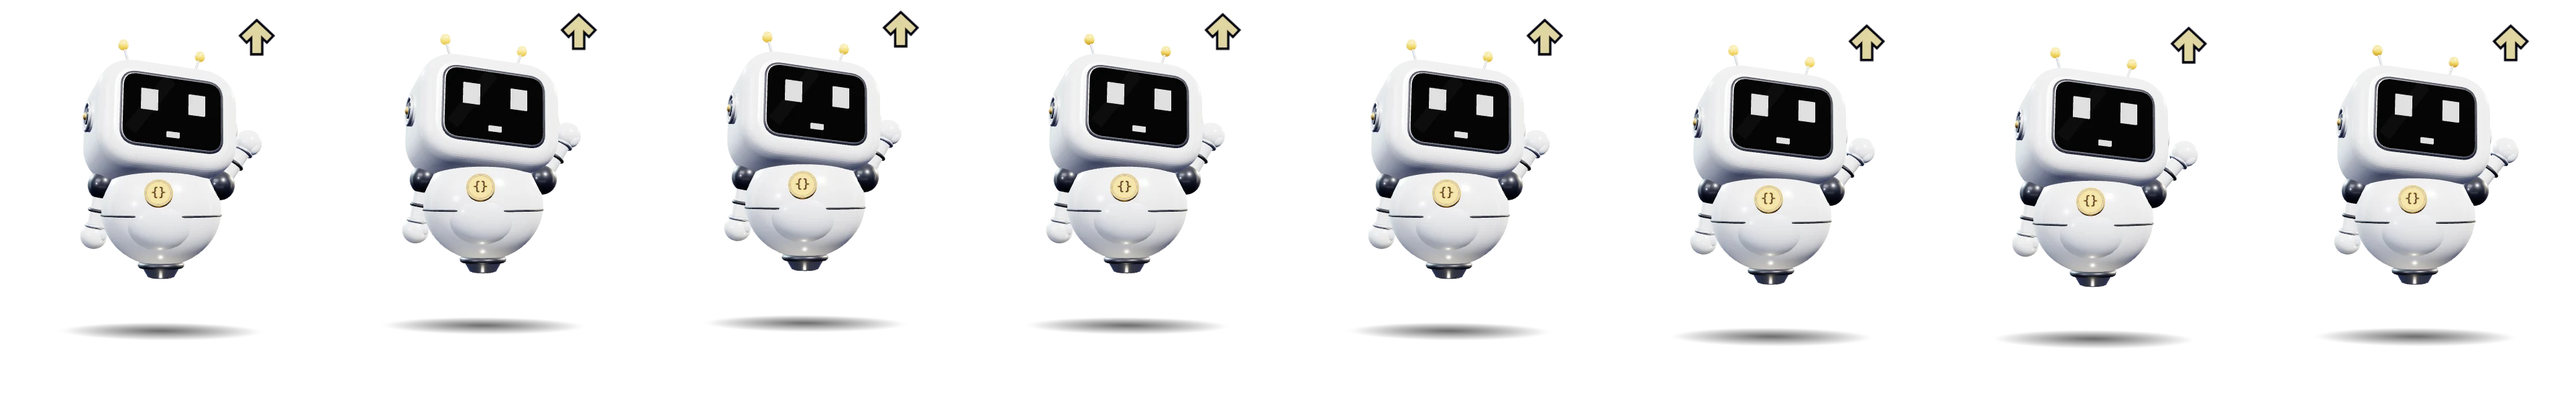
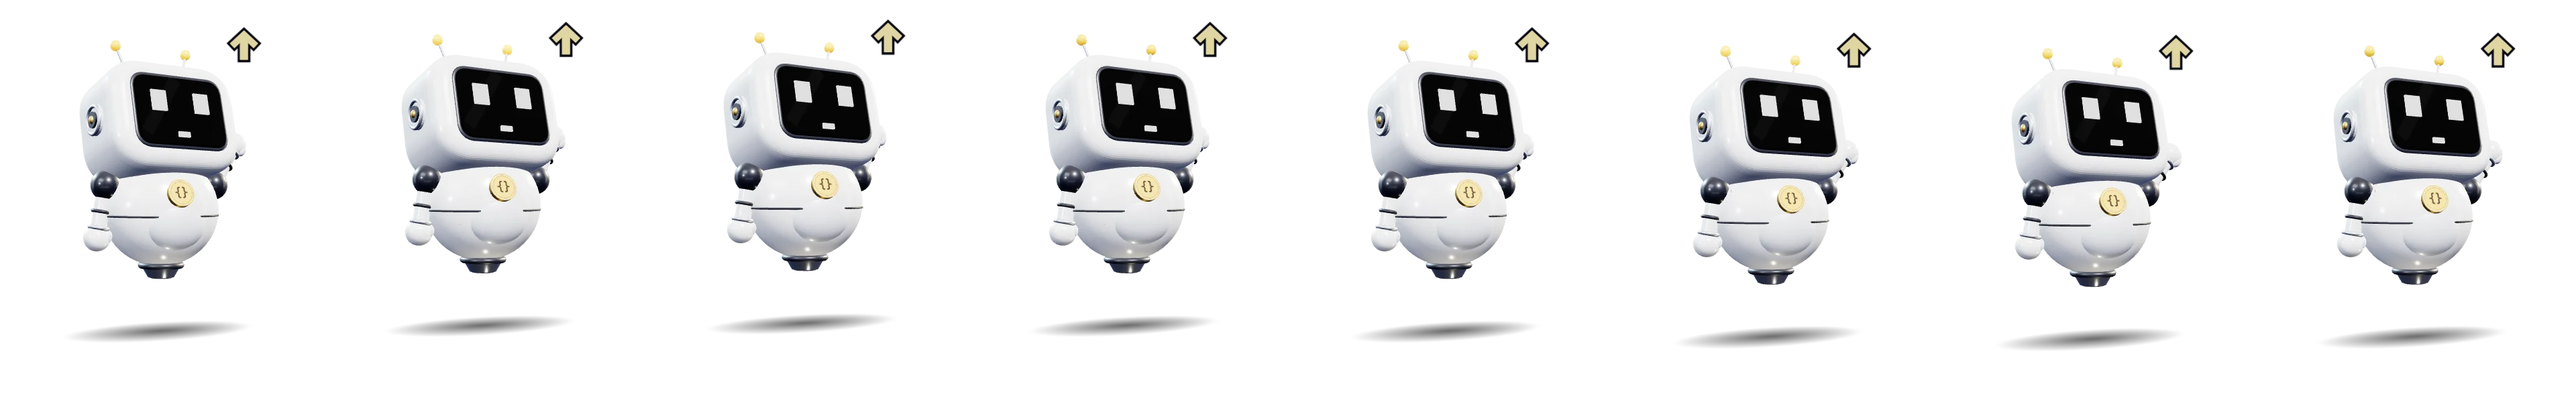
Pixel: 11 new reaction poses, no streak hat, always faces the content
- New poses, modelled on how mascots on Duolingo, Headspace and Google Assistant react: wave, cheer, clap,
  thumbsup, fistbump, oops, shrug, idea (lightbulb), heart, salute, mindblown; new screen-faces (wink,
  heart eyes, star eyes, "o" mouth, wavy mouth)
- Used in the game: wave on arrival at Home, cheer/clap/thumbs-up/dance on right answers, streak when the
  in-a-row count goes up, mind-blown on level up, oops/fist-bump on wrong answers, shrug on time-out,
  cheer when Fastest Finger is won, heart after feedback, salute when the account is locked; hover cycle
  gets the new reactions
- Streak pose: the flame cone on Pixel's head is gone; Pixel pumps a fist with the flame beside it.
  Unused hat code removed, and the SVG fallback no longer draws a party hat or nightcap
- Facing: every pose is drawn turned to the right, toward the question, rules and home card (Pixel stands
  to their left); on the path map, the "You" Pixel on the right of a node is mirrored to face it
- All 35 poses re-exported as pre-drawn images (key lc7qnz|anbojt)

diff --git a/public/game.js b/public/game.js
@@ -199,9 +199,13 @@ const COSTUMES={
   emblem:`<g fill="#C0661C"><circle cx="100" cy="144" r="4.5"/><circle cx="94" cy="137" r="2.2"/><circle cx="100" cy="135" r="2.2"/><circle cx="106" cy="137" r="2.2"/></g>`}};
 let CHAR="pixel";
 /* Mascot: a person in a costume (default Byte, a glossy toy robot: big white helmet head, huge dark eyes, gold ear discs and fins, slim body with a { } chest emblem, cuffed arms and chunky gold boots.
-   Poses: idle, review, think, dance (happy), trophy, finish, bonk (sad), tired, stare, run, chai, zen. */
+   Poses: idle, review, think, dance (happy), trophy, finish, bonk (sad), tired, stare, run, chai, zen.
+   Reactions (the gestures mascots on Duolingo, Headspace and Google Assistant use to answer what just happened):
+   wave (hello), cheer (both fists up), clap, thumbsup, fistbump (you've got this), oops (hand on face), shrug,
+   idea (lightbulb), heart (thank you), salute (all set), mindblown (big win). */
 const POSE_ALIAS={happy:"dance",sad:"bonk"};
-const BYTE_POSES=["panic","pointq","pointa","pointup","idle","review","think","dance","trophy","finish","bonk","tired","stare","run","chai","zen","warm","type","read","vibe","drink","stretch","streak","missed"];
+const BYTE_POSES=["panic","pointq","pointa","pointup","idle","review","think","dance","trophy","finish","bonk","tired","stare","run","chai","zen","warm","type","read","vibe","drink","stretch","streak","missed",
+ "wave","cheer","clap","thumbsup","fistbump","oops","shrug","idea","heart","salute","mindblown"];
 /* ================= 3D mascots: every buddy is modelled in three.js and rendered once per pose into a cached image ================= */
 const M3D=(()=>{let R=null,ok=null;const cache={};
  function init(){if(ok!==null)return ok;try{if(!window.THREE)return ok=false;const T=THREE,cv=document.createElement("canvas");cv.width=FW;cv.height=FH;
@@ -220,7 +224,8 @@ const M3D=(()=>{let R=null,ok=null;const cache={};
  function linear(sc,T){const seen=new Set();sc.traverse(o=>{const ms=o.material?[].concat(o.material):[];ms.forEach(m=>{if(seen.has(m))return;seen.add(m);
   if(m.color)m.color.convertSRGBToLinear();if(m.emissive)m.emissive.convertSRGBToLinear();if(m.map)m.map.encoding=T.sRGBEncoding;
   if(m.isMeshStandardMaterial){m.envMapIntensity=m.metalness>.3?1.2:.75;if(m.isMeshPhysicalMaterial&&m.clearcoat<.8){m.clearcoat=.85;m.clearcoatRoughness=.16}}})})}
- const KIND={panic:"stare",pointq:"open",pointa:"down",pointup:"up",dance:"happy",trophy:"open",finish:"happy",chai:"open",think:"up",review:"down",bonk:"x",tired:"sleepy",stare:"stare",zen:"closed",run:"focus",warm:"happy",type:"down",read:"down",vibe:"happy",drink:"happy",stretch:"happy",streak:"happy",missed:"happy"};
+ const KIND={panic:"stare",pointq:"open",pointa:"down",pointup:"up",dance:"happy",trophy:"open",finish:"happy",chai:"open",think:"up",review:"down",bonk:"x",tired:"sleepy",stare:"stare",zen:"closed",run:"focus",warm:"happy",type:"down",read:"down",vibe:"happy",drink:"happy",stretch:"happy",streak:"star",missed:"happy",
+  wave:"happy",cheer:"star",clap:"happy",thumbsup:"wink",fistbump:"focus",oops:"closed",shrug:"open",idea:"up",heart:"heart",salute:"wink",mindblown:"stare"};
  function pal(C){if(C.hero)return {head:C.cowl?C.mask:C.mask,face:C.skin||null,body:C.suit[1],bodyHi:C.suit[0],belly:C.suit[0],limb:C.limb,glove:C.glove,leg:C.limbDk||C.suit[2],boot:C.boot,lens:C.lens,glow:!!C.lensGlow,belt:C.belt,cape:C.cape||null,accent:C.buckle||C.belt};
   return {head:C.head[0],face:null,body:C.gold[1],bodyHi:C.gold[0],belly:C.white[0],limb:C.cuff||C.white[0],glove:C.glove,leg:C.leg[0],boot:C.gold[1],lens:null,glow:false,belt:null,cape:null,accent:C.gold[2]}}
  function emblemTex(col){const c=document.createElement("canvas");c.width=c.height=128;const g=c.getContext("2d");g.fillStyle=col;g.beginPath();g.arc(64,64,60,0,7);g.fill();g.lineWidth=8;g.strokeStyle="rgba(0,0,0,.35)";g.stroke();
@@ -266,7 +271,9 @@ const M3D=(()=>{let R=null,ok=null;const cache={};
   if(P.cape){const g=new T.PlaneGeometry(1.25,1.9,8,10),pos=g.attributes.position;for(let k=0;k<pos.count;k++){const x=pos.getX(k),y=pos.getY(k),down=(0.95-y)/1.9;pos.setX(k,x*(0.62+0.5*down));pos.setZ(k,-.18*Math.cos(x*2.2)-down*(.32+.12*W)+.06*Math.sin(x*4+t*12)*down)}g.computeVertexNormals();
    const cp=new T.Mesh(g,mat(P.cape,{side:T.DoubleSide,clearcoat:.2}));cp.position.set(0,-.62,-.52);tor.add(cp);[-1,1].forEach(sd=>tor.add(M(sph,mat(P.cape),[sd*.42,.5,-.38],[.12,.1,.1])))}
   /* arms: pivot at shoulder, hang down */
-  const A={panic:[.2,.2,.9,-.9],pointq:[.18,.18,0,0],pointa:[.18,.18,0,0],pointup:[.18,.18,0,0],warm:[2.2,2.2,0,0],stretch:[2.95,2.95,0,0],type:[.32,.32,-1.15,-1.15],read:[.4,.4,-1.0,-1.0],vibe:[.18,.18,0,0],drink:[.18,.35,0,-2.3],streak:[.3,.3,0,0],missed:[.55,.55,-1.25,-1.25],idle:[.18,.18,0,0],review:[.25,.25,-.6,-.6],think:[.2,.5,0,-1.9],dance:[2.5,2.2,0,0],trophy:[2.95,2.95,0,0],finish:[2.6,2.6,0,0],bonk:[1.25,1.25,0,0],tired:[.06,.06,.2,.2],stare:[.18,.18,0,0],run:[.2,.2,.9,-.9],chai:[.15,.45,0,-1.35],zen:[.95,.95,.3,.3]}[pose]||[.18,.18,0,0];
+  const A={panic:[.2,.2,.9,-.9],pointq:[.18,.18,0,0],pointa:[.18,.18,0,0],pointup:[.18,.18,0,0],warm:[2.2,2.2,0,0],stretch:[2.95,2.95,0,0],type:[.32,.32,-1.15,-1.15],read:[.4,.4,-1.0,-1.0],vibe:[.18,.18,0,0],drink:[.18,.35,0,-2.3],streak:[.3,.3,0,0],missed:[.55,.55,-1.25,-1.25],idle:[.18,.18,0,0],review:[.25,.25,-.6,-.6],think:[.2,.5,0,-1.9],dance:[2.5,2.2,0,0],trophy:[2.95,2.95,0,0],finish:[2.6,2.6,0,0],bonk:[1.25,1.25,0,0],tired:[.06,.06,.2,.2],stare:[.18,.18,0,0],run:[.2,.2,.9,-.9],chai:[.15,.45,0,-1.35],zen:[.95,.95,.3,.3],
+   wave:[2.5,.18,-.2,0],cheer:[2.75,2.75,0,0],clap:[-.5,-.5,-1.3,-1.3],thumbsup:[.35,.18,-1.55,0],fistbump:[.25,.3,-1.55,-.2],oops:[.2,-.5,0,-2.3],
+   shrug:[1.0,1.0,-.75,-.75],idea:[.18,2.45,0,-.2],heart:[-.45,-.45,-1.75,-1.75],salute:[.18,.12,0,-2.6],mindblown:[2.3,2.3,-.35,-.35]}[pose]||[.18,.18,0,0];
   const hands={};
   [1,-1].forEach((sd,i)=>{const ar=new T.Group();ar.position.set(sd*.74,.32,0);tor.add(ar);
    let hd;
@@ -295,6 +302,17 @@ const M3D=(()=>{let R=null,ok=null;const cache={};
    if(pose==="review")ax=A[2+i]+.12*W;
    if(pose==="bonk")az=1.25+.3*W2;
    if(pose==="zen")az=.95+.1*W;
+   if(pose==="wave"&&sd>0)az=2.7+.3*W2;                 /* waves hello, toward the screen content */
+   if(pose==="cheer")az=2.75-.4*Math.abs(W2);              /* both fists pump up */
+   if(pose==="clap")az=-.32-.26*Math.abs(Wc);              /* hands meet in front and part */
+   if(pose==="thumbsup"&&sd>0)ax=-1.55+.08*W;
+   if(pose==="fistbump"&&sd>0)ax=-1.55-.12*Math.abs(W2);   /* a fist pushed out to the student */
+   if(pose==="oops"&&sd<0)ax=-2.3+.05*W;                   /* hand to the screen-face */
+   if(pose==="shrug")az=1.0+.12*Math.abs(W);
+   if(pose==="idea"&&sd<0)az=2.45+.05*W;
+   if(pose==="heart")ax=-1.75+.06*W;
+   if(pose==="mindblown")az=2.3+.25*W2;
+   if(pose==="streak"&&sd<0){az=2.45-.3*Math.abs(W2);ax=-.2} /* pumps the fist nearer the viewer */
    ar.rotation.z=sd*az;ar.rotation.x=ax;hands[sd>0?"L":"R"]=hd});
   /* props */
   if(pose==="trophy"){const cup=new T.Group(),g=mat("#FFC52E",{metalness:.6,roughness:.25});cup.add(M(cyl(.22,.08,.3),g,[0,.12,0]));cup.add(M(cyl(.05,.05,.12),g,[0,-.08,0]));cup.add(M(cyl(.12,.12,.04),g,[0,-.16,0]));cup.scale.setScalar(1/.17);cup.position.set(0,-.2/.17,0);hands.L.add(cup)}
@@ -321,7 +339,10 @@ const M3D=(()=>{let R=null,ok=null;const cache={};
   const ez=id==="pixel"?.5:P.face?.76:.7,ey=.04;
   const eye=x=>{const g=new T.Group();g.position.set(x,ey,ez);head.add(g);if(id==="pixel")g.scale.setScalar(1.3);
    if(id==="pixel"){const em=new T.MeshBasicMaterial({color:0xFFFFFF}),px=(a,b,w=.075,h=.075)=>g.add(M(new T.BoxGeometry(w,h,.02),em,[a,b,0]));
-    if(kind==="happy"){px(-.1,-.03);px(-.05,.03);px(0,.07);px(.05,.03);px(.1,-.03);return}
+    if(kind==="happy"||(kind==="wink"&&x>0)){px(-.1,-.03);px(-.05,.03);px(0,.07);px(.05,.03);px(.1,-.03);return}
+    if(kind==="heart"){[[-.075,.06],[-.025,.06],[.025,.06],[.075,.06],[-.1,.01],[-.05,.01],[0,.01],[.05,.01],[.1,.01],[-.075,-.04],[-.025,-.04],[.025,-.04],[.075,-.04],[-.05,-.09],[0,-.09],[.05,-.09],[0,-.13]]
+     .forEach(([a,b])=>{if(!(a===0&&b===.06))px(a,b,.05,.05)});return}
+    if(kind==="star"){px(0,0,.06,.06);[[0,.07],[0,-.07],[.07,0],[-.07,0]].forEach(([a,b])=>px(a,b,.045,.045));[[.05,.05],[-.05,.05],[.05,-.05],[-.05,-.05]].forEach(([a,b])=>px(a,b,.03,.03));return}
     if(kind==="closed"||kind==="sleepy"){px(0,-.02,.26,.06);return}
     if(kind==="x"){[-.08,-.04,0,.04,.08].forEach(k=>{px(k,k,.06,.06);px(k,-k,.06,.06)});return}
     const dy={up:.06,down:-.06}[kind]||0;px(0,dy,.16,kind==="focus"?.1:.2);px(.05,dy+.05,.04,.04);return}
@@ -339,7 +360,10 @@ const M3D=(()=>{let R=null,ok=null;const cache={};
    if(kind==="sleepy")g.add(M(sph,mat(P.head),[0,.11,.04],[.23,.14,.1]))};
   eye(-.3);eye(.3);
   /* mouth */
-  if(id==="pixel"){const mm=new T.MeshBasicMaterial({color:0xFFFFFF});const smile=["dance","trophy","finish","chai","happy","vibe","streak","missed","warm","stretch","drink"].includes(pose);if(smile){[-.12,-.06,0,.06,.12].forEach((k,j)=>head.add(M(new T.BoxGeometry(.075,.065,.03),mm,[k*1.15,-.3+(j===0||j===4?.05:0),.5])))}else if(pose==="bonk")head.add(M(new T.BoxGeometry(.26,.065,.03),mm,[0,-.32,.5]));else head.add(M(new T.BoxGeometry(.16,.065,.03),mm,[0,-.3,.5]))}
+  if(id==="pixel"){const mm=new T.MeshBasicMaterial({color:0xFFFFFF});const smile=["dance","trophy","finish","chai","happy","vibe","streak","missed","warm","stretch","drink","wave","cheer","clap","thumbsup","fistbump","heart","salute","idea"].includes(pose);
+   if(pose==="mindblown"||pose==="oops"){[[-.06,0],[.06,0]].forEach(([a])=>head.add(M(new T.BoxGeometry(.05,.16,.03),mm,[a,-.31,.5])));[.07,-.07].forEach(b=>head.add(M(new T.BoxGeometry(.08,.05,.03),mm,[0,-.31+b,.5])))}
+   else if(pose==="shrug")[[-.1,-.32],[-.035,-.3],[.035,-.3],[.1,-.28]].forEach(([a,b])=>head.add(M(new T.BoxGeometry(.075,.055,.03),mm,[a,b,.5])));
+   else if(smile){[-.12,-.06,0,.06,.12].forEach((k,j)=>head.add(M(new T.BoxGeometry(.075,.065,.03),mm,[k*1.15,-.3+(j===0||j===4?.05:0),.5])))}else if(pose==="bonk")head.add(M(new T.BoxGeometry(.26,.065,.03),mm,[0,-.32,.5]));else head.add(M(new T.BoxGeometry(.16,.065,.03),mm,[0,-.3,.5]))}
   else if(["dance","trophy","finish","chai"].includes(pose))head.add(M(new T.TorusGeometry(.09,.025,8,20,Math.PI),dark,[0,-.3,.73],[1,1,1],[0,0,Math.PI]));
   else if(pose==="bonk")head.add(M(new T.TorusGeometry(.08,.022,8,20,Math.PI),dark,[0,-.36,.73]));
   else head.add(M(sph,dark,[0,-.32,.73],[.05,.04,.03]));
@@ -355,24 +379,13 @@ const M3D=(()=>{let R=null,ok=null;const cache={};
   if(id==="webby"){head.add(M(new T.TorusGeometry(.5,.012,6,40),mat("#1A0640"),[0,.05,.55],[1,1,1]));head.add(M(new T.TorusGeometry(.3,.012,6,40),mat("#1A0640"),[0,.05,.66]))}
   /* ---- pose accessories (hats, glasses, props, floating icons) ---- */
   const isBolt=id==="byte",cyl2=(a,b,h,n=32)=>new T.CylinderGeometry(a,b,h,n);
-  const icon=(txt,col,sz,pos)=>{const c=document.createElement("canvas");c.width=c.height=128;const g=c.getContext("2d");g.font=`900 ${sz}px 'Unbounded','Arial Black',sans-serif`;g.textAlign="center";g.textBaseline="middle";col="#FDE68A";g.lineWidth=10;g.strokeStyle="#14162A";g.strokeText(txt,64,68);g.fillStyle=col;g.fillText(txt,64,68);
+  const icon=(txt,col,sz,pos,own)=>{const c=document.createElement("canvas");c.width=c.height=128;const g=c.getContext("2d");g.font=`900 ${sz}px 'Unbounded','Arial Black',sans-serif`;g.textAlign="center";g.textBaseline="middle";if(!own)col="#FDE68A";g.lineWidth=10;g.strokeStyle="#14162A";g.strokeText(txt,64,68);g.fillStyle=col;g.fillText(txt,64,68);
    const sp=new T.Sprite(new T.SpriteMaterial({map:new T.CanvasTexture(c),transparent:true,depthTest:false}));sp.position.set(...pos);sp.scale.set(.8,.8,1);root.add(sp);return sp};
   const inHand=(h,o,p=[0,0,0])=>{o.scale.multiplyScalar(1/.17);o.position.set(p[0]/.17,p[1]/.17,p[2]/.17);h.add(o)};
   if(isBolt){/* round glasses + pose shirt colour */
    const fr=mat("#14162A",{roughness:.2});[-.3,.3].forEach(x=>head.add(M(new T.TorusGeometry(.2,.035,10,28),fr,[x,.04,.73])));head.add(M(cyl2(.025,.025,.2),fr,[0,.06,.75],[1,1,1],[0,0,Math.PI/2]));
    const shirt={run:"#E5484D",warm:"#E5484D",stretch:"#E5484D",drink:"#E5484D",read:"#3E7C59",chai:"#3E7C59",tired:"#9DB4E0",trophy:"#6E56CF",finish:"#6E56CF",dance:"#6E56CF",streak:"#6E56CF",vibe:"#6E56CF"}[pose];
    }
-  const hat=(kind)=>{const h=new T.Group();h.position.set(0,.55,0);head.add(h);const H=c=>mat(c);
-   if(kind==="cap"||kind==="capblue"){const c=kind==="cap"?"#E5484D":"#2F8CFF";h.add(M(new T.SphereGeometry(.78,32,16,0,Math.PI*2,0,Math.PI/2),H(c),[0,-.12,0],[1,.6,1]));h.add(M(cyl2(.62,.62,.04),H(c),[0,-.1,-.55],[1,1,.6]))}
-   if(kind==="band"){head.add(M(new T.TorusGeometry(.8,.07,10,40),H("#FFFFFF"),[0,.32,0],[1.02,1,.95],[Math.PI/2,0,0]));head.add(M(new T.TorusGeometry(.8,.035,8,40),H("#E5484D"),[0,.32,0],[1.04,1,.97],[Math.PI/2,0,0]))}
-   if(kind==="party"){h.add(M(new T.ConeGeometry(.3,.75,24),H("#FF4F8B"),[0,.3,0],[1,1,1],[0,0,.15]));h.add(M(sph,H("#FFE45C"),[.06,.7,0],[.08,.08,.08]))}
-   if(kind==="grad"){h.add(M(new T.BoxGeometry(1.25,.06,1.25),H("#1C1E2C"),[0,.12,0],[1,1,1],[0,.6,0]));h.add(M(cyl2(.42,.46,.2),H("#1C1E2C"),[0,0,0]));h.add(M(cyl2(.012,.012,.4),H("#FFC52E"),[.45,-.05,.2],[1,1,1],[.2,0,.3]))}
-   if(kind==="detective"||kind==="fedora"){h.add(M(cyl2(.75,.75,.04),H("#2C2C34"),[0,-.12,0]));h.add(M(cyl2(.42,.5,.38),H("#2C2C34"),[0,.06,0]));h.add(M(cyl2(.505,.505,.08),H("#C9A227"),[0,-.06,0]))}
-   if(kind==="bucket"){h.add(M(cyl2(.48,.62,.36),H("#8EDB7A"),[0,0,0]));h.add(M(cyl2(.8,.8,.04),H("#6FC75A"),[0,-.17,0]))}
-   if(kind==="night"){h.add(M(new T.ConeGeometry(.66,1.0,28),H("#5B6B9A"),[.15,.22,-.05],[1,1,1],[0,0,-.7]));h.add(M(new T.TorusGeometry(.6,.1,10,30),H("#FFFFFF"),[0,-.18,0],[1,1,1],[Math.PI/2,0,0]));h.add(M(sph,H("#FFFFFF"),[.6,-.05,0],[.12,.12,.12]))}};
-  const shades=()=>{const sg=mat("#0B0B10",{roughness:.05,clearcoat:1});[-.3,.3].forEach(x=>head.add(M(sph,sg,[x,.05,.74],[.25,.17,.06])));head.add(M(new T.BoxGeometry(.25,.05,.05),sg,[0,.1,.76]))};
-  const phones=()=>{const pm=mat("#5E5E5E"),cup=mat("#FF8A1F");head.add(M(new T.TorusGeometry(.86,.06,10,40,Math.PI),pm,[0,.05,0],[1,1,1],[0,0,0]));[-1,1].forEach(sd=>head.add(M(cyl2(.24,.24,.2),cup,[sd*.86,.02,0],[1,1,1],[0,0,Math.PI/2])))};
-  const H={pointq:"cap",pointa:"cap",pointup:"cap",idle:"cap",run:"band",warm:"band",stretch:"band",finish:"party",trophy:"grad",review:"detective",type:"cap",dance:"bucket",vibe:"bucket",drink:"capblue",streak:"capblue",chai:"fedora",tired:"night"}[pose];
 
 
   if(pose==="vibe"){icon("♪","#5DE3C8",80,[1.0,3.4,0])}
@@ -381,7 +394,20 @@ const M3D=(()=>{let R=null,ok=null;const cache={};
   if(pose==="pointq")icon("?","#5DE3C8",70,[1.55,2.85,0]);if(pose==="pointa")icon("✓","#3DD16F",70,[1.45,1.6,0]);if(pose==="pointup")icon("↑","#FFE45C",80,[1.2,3.7,0]);
   if(pose==="tired")icon("z","#FFFFFF",70,[1.0,3.5,0]),icon("Z","#FFFFFF",90,[1.35,3.95,0]);
   if(pose==="missed")icon("♥","#FF7AA8",100,[1.0,3.4,0]);
-  if(pose==="streak"){const fl=new T.Group();fl.add(M(new T.ConeGeometry(.2,.55,20),mat("#FF7A1A",{emissive:new T.Color("#FF7A1A"),emissiveIntensity:.5}),[0,0,0]));fl.add(M(new T.ConeGeometry(.11,.3,16),mat("#FFE45C",{emissive:new T.Color("#FFE45C"),emissiveIntensity:.6}),[0,-.06,.06]));fl.position.set(0,1.2+.05*W2,0);fl.scale.y=1+.15*W2;head.add(fl)}
+  /* streak: a fist pump with the streak flame flickering beside the raised fist (nothing sits on the head) */
+  if(pose==="streak"){const fl=icon("🔥","#FF7A1A",92,[-1.25,3.55+.05*W2,.3],true);fl.scale.set(.62+.05*W2,.66+.08*W2,1)}
+  if(pose==="thumbsup"){const th=caps(.06,.16,PX?PX.pearl:mat(P.glove));th.rotation.x=Math.PI/2;inHand(hands.L,th,[0,.03,.2]);icon("✦","#FFE45C",56,[1.55,2.6,0])}
+  if(pose==="fistbump"){icon("✦","#FFE45C",54,[1.6,1.95+.08*W,0]);icon("✦","#FFE45C",40,[1.35,2.35-.08*W,0])}
+  if(pose==="oops"){const dr=icon("💧","#5BC0FF",60,[.95,3.15-.12*Math.abs(W),0]);dr.scale.set(.5,.5,1)}
+  if(pose==="shrug"){icon("?","#FFE45C",64,[-1.05,3.2+.06*W,0]);icon("?","#FFE45C",80,[1.1,3.35-.06*W,0])}
+  if(pose==="idea"){const bl=new T.Group();bl.add(M(sph,mat("#FFE07A",{emissive:new T.Color("#FFD23F"),emissiveIntensity:.9+.35*W2,roughness:.15,clearcoat:1}),[0,0,0],[.24,.26,.24]));
+   bl.add(M(cyl2(.11,.13,.16),PX?PX.chrome:mat("#C9CED8"),[0,-.3,0]));bl.add(ring(.12,.018,PX?PX.gph:mat("#2C2C34"),[0,-.26,0]));bl.add(ring(.12,.018,PX?PX.gph:mat("#2C2C34"),[0,-.33,0]));
+   bl.position.set(-1.05,3.45+.06*W,.35);root.add(bl);icon("✦","#FFE45C",44,[-1.55,3.7,0]);icon("✦","#FFE45C",36,[-.55,3.75,0])}
+  if(pose==="heart"){[[.95,3.2,.0],[1.3,3.6,.33],[-.9,3.35,.66]].forEach(([x,y,ph])=>{const k=(t+ph)%1,hs=icon("♥","#FF6B9A",96,[x,y+.35*k,0],true);hs.scale.setScalar(.55+.25*Math.sin(k*Math.PI));hs.material.opacity=1-k*.6})}
+  if(pose==="cheer"){["#FF7AA8","#5DE3C8","#FFE45C","#7B5CFF","#3DD16F","#FF8A1F"].forEach((c,k)=>root.add(M(new T.BoxGeometry(.1,.1,.02),mat(c),[(k-2.5)*.42,3.5+.25*Math.sin(k*1.7+t*6.3),.25],[1,1,1],[k,k*2+t*6,0])))}
+  if(pose==="clap"){const on=Math.abs(Wc)<.35;if(on){icon("✦","#FFE45C",50,[-.35,2.05,.9]);icon("✦","#FFE45C",40,[.4,2.25,.9])}}
+  if(pose==="mindblown"){const g=new T.Group();g.position.set(0,0,-.05);head.add(g);for(let k=0;k<10;k++){const a=k/10*Math.PI*2,r=1.02+.22*((t*2)%1);
+    g.add(M(new T.BoxGeometry(.2,.06,.03),mat(k%2?"#FFE45C":"#FF8A1F",{emissive:new T.Color(k%2?"#FFE45C":"#FF8A1F"),emissiveIntensity:.6}),[Math.cos(a)*r*1.15,Math.sin(a)*r*.95,0],[1,1,1],[0,0,a]))}}
   if(pose==="bonk"){head.add(M(new T.BoxGeometry(.5,.13,.04),mat("#FFFFFF"),[.3,.55,.55],[1,1,1],[-.5,0,-.5]));icon("✦","#FFE45C",70,[-.9,3.2,0])}
   if(pose==="warm"||pose==="stretch"){icon("✦","#FFE45C",60,[-1.0,3.1,0]);icon("✦","#FFE45C",50,[1.05,3.3,0])}
   if(pose==="zen"){const ring=new T.Mesh(new T.RingGeometry(.6,1.0,40),new T.MeshBasicMaterial({color:0xFFE45C,transparent:true,opacity:.35,side:T.DoubleSide}));ring.rotation.x=-Math.PI/2;ring.position.y=.04;root.add(ring)}
@@ -390,17 +416,20 @@ const M3D=(()=>{let R=null,ok=null;const cache={};
   if(pose==="type"){const lp=new T.Group();lp.add(M(new T.BoxGeometry(1.1,.05,.7),mat("#3A3F58"),[0,0,0]));const scr=M(new T.BoxGeometry(1.1,.68,.04),mat("#2B2F44"),[0,.34,-.35],[1,1,1],[-.25,0,0]);lp.add(scr);lp.add(M(new T.PlaneGeometry(.95,.55),new T.MeshBasicMaterial({color:0x14C3A2}),[0,.34,-.32],[1,1,1],[-.25,0,0]));lp.position.set(0,1.2,.75);body.add(lp)}
   if(pose==="read"){const bk=new T.Group();[-1,1].forEach(sd=>bk.add(M(new T.BoxGeometry(.5,.62,.05),mat("#FFFFFF"),[sd*.26,0,0],[1,1,1],[0,sd*.35,0])));bk.add(M(new T.BoxGeometry(1.08,.66,.03),mat("#E5484D"),[0,0,-.06]));bk.position.set(0,1.45,.78);bk.rotation.x=-.35;body.add(bk)}
   if(pose==="drink"){const bt=new T.Group();bt.add(M(cyl2(.11,.11,.5),new T.MeshPhysicalMaterial({color:0x5BC0FF,transparent:true,opacity:.75,roughness:0,clearcoat:1}),[0,.15,0]));bt.add(M(cyl2(.07,.07,.08),mat("#FFFFFF"),[0,.44,0]));inHand(hands.R,bt,[0,.05,0]);icon("•","#5BC0FF",80,[1.1,3.3,0])}
-  if(pose==="trophy"&&isBolt){}
   /* pose tilt */
-  const tilt={panic:[-.1,0,.12*W2],pointq:[0,.55,0],pointa:[.25,.5,0],pointup:[-.3,.35,0],warm:[0,0,.1*W],stretch:[-.15,0,0],type:[.22,0,0],read:[.28,.08*W,0],vibe:[0,0,.15*W2],drink:[-.25,0,0],streak:[-.05,.1*W,0],missed:[0,0,.12*W],dance:[0,0,.12*W2],bonk:[0,0,.25*W2],tired:[.28,0,.05*W],think:[-.12,.15*W,-.1],review:[.18+.1*W,0,0],idle:[0,.18*W,.05*W],stare:[0,.12*W,0],chai:[-.05,0,.06*W],trophy:[-.15,0,.08*W2],finish:[-.1,0,.1*W2]}[pose]||[0,0,0];head.rotation.set(...tilt);
-  const hop={panic:.18,dance:.16,trophy:.22,finish:.24,run:.12,vibe:.08,warm:.1,streak:.06}[pose];if(hop)body.position.y=hop*Math.abs(W2);
+  const tilt={panic:[-.1,0,.12*W2],pointq:[0,.2,0],pointa:[.25,.18,0],pointup:[-.3,.12,0],warm:[0,0,.1*W],stretch:[-.15,0,0],type:[.22,0,0],read:[.28,.08*W,0],vibe:[0,0,.15*W2],drink:[-.25,0,0],streak:[-.05,.1*W,0],missed:[0,0,.12*W],dance:[0,0,.12*W2],bonk:[0,0,.25*W2],tired:[.28,0,.05*W],think:[-.12,.15*W,-.1],review:[.18+.1*W,0,0],idle:[0,.18*W,.05*W],stare:[0,.12*W,0],chai:[-.05,0,.06*W],trophy:[-.15,0,.08*W2],finish:[-.1,0,.1*W2],
+   wave:[-.05,.1,.1*W2],cheer:[-.18,0,.08*W2],clap:[-.08,0,.05*Wc],thumbsup:[-.06,.12,-.12],fistbump:[.05,.15,0],oops:[.22,-.1,.06*W],shrug:[0,0,.18],idea:[-.22,.1,-.06],heart:[-.08,0,.1*W],salute:[-.05,.12,0],mindblown:[-.12,0,.06*W2]}[pose]||[0,0,0];head.rotation.set(...tilt);
+  const hop={panic:.18,dance:.16,trophy:.22,finish:.24,run:.12,vibe:.08,warm:.1,streak:.06,cheer:.2,mindblown:.12,wave:.05,clap:.05,heart:.06}[pose];if(hop)body.position.y=hop*Math.abs(W2);
   if(pose==="dance")body.rotation.y=.35*W;if(pose==="zen")body.position.y=.18+.12*W;
   if(pose==="idle")tor.scale.set(1,1+.02*W2,1);
   if(run)body.rotation.x=.18;if(pose==="tired")body.rotation.z=.06*W;
   /* ground shadow */
   const sh=new T.Mesh(new T.PlaneGeometry(2.6,1.3),new T.MeshBasicMaterial({map:shadowTex(),transparent:true,depthWrite:false}));sh.rotation.x=-Math.PI/2;sh.position.y=.02;root.add(sh);
   if(id==="pixel")root.position.y+=.18+.1*W;
-  root.rotation.y=["pointq","pointa","pointup"].includes(pose)?-.05:-.38;return root}
+  /* Pixel always stands to the left of what he talks about (the question, the rules, the home card), so every pose is
+     drawn turned toward the right of the picture. Reactions aimed at the student turn him less; a buddy placed to the
+     right of its content is mirrored in CSS (.mascot.flip). */
+  root.rotation.y=["wave","cheer","clap","heart","mindblown","shrug","fistbump","thumbsup"].includes(pose)?.22:.42;return root}
  const N=8;
  /* A pose takes 50–300 ms to model and render, so finished sprite sheets are kept in IndexedDB (read before the game starts,
     see index.html) under a key that changes whenever the costume or the modelling code changes. */
@@ -415,7 +444,7 @@ const M3D=(()=>{let R=null,ok=null;const cache={};
     model him: drawing a pose took 80–200 ms of blocked page each time and made Fastest Finger and the hot seat stutter.
     The images are used only while the model, costume and lighting code are the ones they were drawn from (same key);
     after any change to those, the browser draws them as before until the images are exported again. */
- const PIXEL_SHEETS={key:"1vn8d6e|anbojt",poses:["bonk","chai","dance","drink","finish","idle","missed","panic","pointa","pointq","pointup","read","review","run","stare","streak","stretch","think","tired","trophy","type","vibe","warm","zen"]};
+ const PIXEL_SHEETS={key:"lc7qnz|anbojt",poses:["bonk","chai","cheer","clap","dance","drink","finish","fistbump","heart","idea","idle","mindblown","missed","oops","panic","pointa","pointq","pointup","read","review","run","salute","shrug","stare","streak","stretch","think","thumbsup","tired","trophy","type","vibe","warm","wave","zen"]};
  const shipped=(C,pose)=>C.id==="pixel"&&PIXEL_SHEETS.poses.includes(pose)&&PIXEL_SHEETS.key===ver()+"|"+hash(JSON.stringify(C))?"/media/pixel/poses/"+pose+".webp?k="+encodeURIComponent(PIXEL_SHEETS.key):null;
  function render(C,pose){const key=C.id+"|"+pose;if(cache[key]!==undefined)return cache[key];
   const sh=shipped(C,pose);if(sh)return cache[key]=sh;
@@ -526,9 +555,9 @@ function mascot(mood,size,cid){const C=COSTUMES[cid]||COSTUMES[CHAR]||COSTUMES.b
   zen:"",chai:"",review:""}[m]||"";
  const under=m==="zen"?`<ellipse cx="100" cy="250" rx="70" ry="9" fill="#FFC83D" opacity=".35"/><ellipse cx="100" cy="110" rx="92" ry="110" fill="url(#rGlow)"/>`:"";
  /* ---- headwear ---- */
- const hat=m==="finish"?`<g><path d="M80 26L100 -20L120 26Z" fill="#FF7A95"/><path d="M86 12L114 12M92 -2L108 -2" stroke="#FFE08A" stroke-width="4"/><circle cx="100" cy="-22" r="6" fill="#FFE08A"/></g>`
-  :m==="bonk"?`<g transform="rotate(-20 126 30)"><rect x="112" y="24" width="28" height="11" rx="5" fill="#F7D9B5"/><path d="M122 26v7M130 26v7" stroke="#C9A27A" stroke-width="1.6"/></g>`
-  :m==="tired"?`<g><path d="M52 40Q100 -4 150 40Q160 18 120 6Q84 -2 52 40Z" fill="#6D5BD0"/><circle cx="160" cy="24" r="7" fill="#fff"/><path d="M52 40Q100 26 150 40" stroke="#fff" stroke-width="5" fill="none"/></g>`:"";
+ /* no hats on any pose; only the bandage after a bonk */
+ const hat=m==="bonk"?`<g transform="rotate(-20 126 30)"><rect x="112" y="24" width="28" height="11" rx="5" fill="#F7D9B5"/><path d="M122 26v7M130 26v7" stroke="#C9A27A" stroke-width="1.6"/></g>`
+  :"";
  const tilt={bonk:"rotate(-8 100 110)",tired:"rotate(6 100 110) translate(0 6)",think:"rotate(7 100 110)",review:"rotate(-5 100 110)",dance:"rotate(5 100 110)",stare:""}[m]||"";
  /* gradient ids carry the costume id so different buddies on one page keep their own colours */
  return (`<span class="mascot rbot ${m} c-${K}" style="width:${size}px" aria-hidden="true"><svg viewBox="0 0 200 260"><defs>
@@ -1071,6 +1100,7 @@ function istHour(){const d=new Date(Date.now()+(330+new Date().getTimezoneOffset
 function ctxPose(){const h=istHour(),min=(Date.now()-T0)/60000;
  if(document.fullscreenElement)return "zen";
  if(MISSED&&min<10)return "missed";
+ if(min<.4)return "wave";
  if(min>=90&&Math.floor(min)%90<3)return "stretch";
  if(min>=45&&Math.floor(min)%45<3)return "drink";
  if(Date.now()<VIBE_UNTIL)return "vibe";
@@ -1156,7 +1186,7 @@ function vNoQ(){const r=S.noQ||{},soon=(r.comingSoon||[]).map(id=>SK[id]).filter
  return `<div class="play">${dockHTML(S.phase==="loading"?"think":"chai","col")}<div class="left"><section class="mainc">${body}</section></div><div class="side">${boardHTML(rungOf())}</div></div>`}
 function vPlay(){if(!S.q)return vNoQ();const q=S.q,r=rungOf(),st=rowSteps(Math.min(r,ROWS.length-1)),stake=r<OPEN?LADDER[r]:LADDER[OPEN-1];
  const pips="";
- const mood=S.phase==="reveal"?(S.ok?(S.info&&S.info.ck?"trophy":"dance"):S.timeout?"tired":"bonk"):S.phase==="locked"?"think":(S.run.en<=20?"tired":S.thinkLong?"think":(S.pick!=null||S.fill||(S.ord&&S.ord.length)?"pointa":"pointq"));
+ const RV=S.run.answered||0,mood=S.phase==="reveal"?(S.ok?(S.info&&S.info.ck?"trophy":S.info&&S.info.lvup?"mindblown":S.info&&S.info.ta&&S.info.tb&&S.info.ta.streak>S.info.tb.streak&&RV%2?"streak":["cheer","clap","thumbsup","dance"][RV%4]):S.timeout?"shrug":["oops","fistbump"][RV%2]):S.phase==="locked"?"think":(S.run.en<=20?"tired":S.thinkLong?"think":(S.pick!=null||S.fill||(S.ord&&S.ord.length)?"pointa":"pointq"));
  return `<div class="play ${S.phase==="reveal"?"rev":""}">${dockHTML(mood,"col")}<div class="left"><div class="hud"><div class="lls">${energyHTML()}</div>
 <div class="clock ${S.time<=10?"low":""}" id="clock" style="--p:${S.time/(S.secsMax||CFG.secs)}" role="timer" aria-label="Seconds left"><span>${S.time}</span></div>
 <div class="stake one"><span class="stk-note" id="stknote">${noteThumb(stake)}</span><span class="stk-t"><small>Playing for</small><b>${fmtR(stake)}</b></span>${boardMin()?`<button class="bmax" data-act="board-min" aria-label="Show the money board">Money board <b aria-hidden="true">＋</b></button>`:""}</div></div>
@@ -1174,7 +1204,7 @@ ${feedbackHTML()}
 </section></div><div class="side">${boardHTML(r)}</div></div>`}
 function vResult(){const R=S.res,rc=R.reached||0,pay=R.payout||0;
  const msg=R.reason==="win"?`${fmtR(pay)} collected! You're a Crorepati Coder.`:R.reason==="stop"?(pay?`Smart move. You walked away with ${fmtR(pay)}.`:"You stopped here. Nothing banked this time, but your path progress is saved."):R.reason==="energy"?`Out of energy! Your path progress is saved${pay?` and ${fmtR(pay)} went to your wallet`:""}. Recharge with a new game.`:pay?`Game over, but you keep it all. ${fmtR(pay)} goes to your wallet.`:"Tough one. Nothing banked this time. Read why, then go again.";
- const mood=R.reason==="win"?"trophy":R.reason==="stop"?"chai":pay?"dance":R.reason==="timeout"?"tired":"bonk";
+ const mood=R.reason==="win"?"trophy":R.reason==="stop"?"chai":pay?"clap":R.reason==="timeout"?"shrug":"fistbump";
  const learn=""; /* the results screen no longer repeats the last wrong answer's working (it was shown in the hot seat) */
  return `<section class="res enter"><div class="res-card card">
 <div class="res-top"><div class="res-head">
@@ -1566,7 +1596,7 @@ function rfPost(id,ctx){const F=RF[id],text=(F.text||"").trim().slice(0,600);log
 /* the results rating is optional (Skip) and shows only until the student has rated a game once */
 const gfbAsk=()=>!(P.gfbSent||ME.gameRated);
 function fbDone(){FB.must=false;FB.form="m";fbLock(false)}
-function fbHTML(sent){if(sent)return `<div class="fbbox" role="dialog" aria-modal="true" aria-label="Feedback"><div class="fbdone">${mascot("dance",120)}${FB.score>5?`<div class="fbbig">${FB.score}/5</div>`:""}<h3>Thank you!</h3><p>Your feedback reached the KBC team.</p><button class="btn gold" data-act="fb-close">Close</button></div></div>`;
+function fbHTML(sent){if(sent)return `<div class="fbbox" role="dialog" aria-modal="true" aria-label="Feedback"><div class="fbdone">${mascot("heart",120)}${FB.score>5?`<div class="fbbig">${FB.score}/5</div>`:""}<h3>Thank you!</h3><p>Your feedback reached the KBC team.</p><button class="btn gold" data-act="fb-close">Close</button></div></div>`;
  const f=FB.form||"m";return `<div class="fbbox fb-${f}" role="dialog" aria-modal="true" aria-labelledby="rf-${f}-h">${FB.must?"":`<button class="mx fbx" data-act="fb-close" aria-label="Close">✕</button>`}${f==="m"?"":mascot("dance",64)}${rfHTML(f)}</div>`}
 /* FB.must: the mandatory pop-up is up. It has no close button, ignores Escape, and the rest of the page is inert
    until the student sends a rating. */
@@ -1809,7 +1839,7 @@ function fffBegin(){const F=S.fff;if(!F||!F.intro)return;F.intro=false;F.t0=Date
  if(F.mode==="maze"){F.mz=0;F.grid=mazeGrid();F.sel=[];F.msg=""}
  if(F.mode==="cross"){F.cx=crossGen();F.fill={};F.msg=""}
  SFX.start();render();fffClock(F.max);fffFocus()}
-function fffBot(){const F=S.fff,m=F.intro?"warm":F.done==="ok"?"finish":F.done?(F.timeout?"tired":"bonk"):F.panic?"panic":"run";
+function fffBot(){const F=S.fff,m=F.intro?"warm":F.done==="ok"?"cheer":F.done?(F.timeout?"shrug":"fistbump"):F.panic?"panic":"run";
  const go=F.intro?"Read the rules, then hit Play. The clock waits for you!":F.panic?["Hurry! Clock is melting!","Faster faster faster!","Seconds left. GO!"][F.idx%3]:{sprint:"Type fast. Right answers jump ahead!",maze:"Find the path that hits the target!",cross:"Fill the blanks so every sum works!"}[F.mode];
  const say=F.done==="ok"?"Lightning fingers! The hot seat is yours.":F.done?(F.timeout?"Too slow! Try another round.":"Shake it off. Next round!"):go;
  return `<aside class="fffbot" data-m="${m}"><p class="say">${say}</p>${mascot(m,200)}<span class="bname" aria-hidden="true">${esc(buddyName())}<small>your KBC buddy</small></span></aside>`}
@@ -1826,7 +1856,7 @@ function fffDemo(mode){
 function seatDemo(){return `<div class="dm dm-seat"><div class="dm-qc">What does this print?<code>print(7 // 2)</code></div><div class="dm-opts"><span>A · 3.5</span><span class="pk">B · 3</span><span>C · 4</span><span>D · 2</span></div><div class="dm-lock">Lock answer</div><div class="dm-sol">💡 Reveal solution</div>${PTR}</div>`}
 /* Between winning Fastest Finger and the first question: what happens in the hot seat, with a demo */
 function vSeat(){const first=!P.runs;
- return `<div class="fffgrid"><aside class="fffbot"><p class="say">You made it! I'm ${esc(buddyName())}, and I'll be right here with you. Read this, then take your seat.</p>${mascot("finish",200)}<span class="bname" aria-hidden="true">${esc(buddyName())}<small>your KBC buddy</small></span></aside><section class="fffw enter"><div class="qcard card fffhead fintro seatin"><span class="chip gold">The hot seat</span><div class="fi-ic" aria-hidden="true">🪑</div><h2 class="qtext">How the hot seat works</h2>
+ return `<div class="fffgrid"><aside class="fffbot"><p class="say">You made it! I'm ${esc(buddyName())}, and I'll be right here with you. Read this, then take your seat.</p>${mascot("cheer",200)}<span class="bname" aria-hidden="true">${esc(buddyName())}<small>your KBC buddy</small></span></aside><section class="fffw enter"><div class="qcard card fffhead fintro seatin"><span class="chip gold">The hot seat</span><div class="fi-ic" aria-hidden="true">🪑</div><h2 class="qtext">How the hot seat works</h2>
 <div class="fi-cols"><div><ol class="fi-steps"><li style="--i:0"><b>1</b><span>Read the question and the code</span></li><li style="--i:1"><b>2</b><span>Answer it the way the question asks: pick, tap, type or put in order</span></li><li style="--i:2"><b>3</b><span>Press <strong>Lock answer</strong>. Then tap <strong>Reveal solution</strong> to see the working</span></li></ol>
 <div class="fi-meta"><span>⏱ ${seatSecsNote()}</span><span>⚡ A miss costs energy; 3 right in a row gives some back</span></div></div>
 <figure class="demo" aria-label="How it looks: a short looping demo"><figcaption>Watch how it works</figcaption>${seatDemo()}</figure></div>
@@ -1916,7 +1946,7 @@ const TOUR=[
 let TI=-1;
 /* Pixel follows the cursor and reacts to it (reference: robot-heads reel). The head turns toward the pointer on a spring;
    hovering makes Pixel hop and cycle through its screen-face expressions, with a one-line reaction in the speech bubble. */
-const PX_MOODS=[["dance","Hehe, that tickles!"],["think","Hmm… planning your next level"],["stare","I see you 👀"],["vibe","Vibing at 60 fps"],["panic","Whoa! Careful with that cursor!"],["zen","Deep breath. You've got this."]];
+const PX_MOODS=[["wave","Hi there! 👋"],["dance","Hehe, that tickles!"],["idea","Ooh, I just had an idea…"],["thumbsup","You're doing great."],["stare","I see you 👀"],["heart","Thanks for playing with me!"],["vibe","Vibing at 60 fps"],["shrug","Me? I just work here."],["panic","Whoa! Careful with that cursor!"],["zen","Deep breath. You've got this."]];
 const PXF={rx:0,ry:0,vrx:0,vry:0,trx:0,try:0,hy:0,vhy:0,raf:0,hov:null,i:0,base:null,say:null,timer:null};
 const pxEl=()=>document.querySelector(".h4-bot .mascot,.mcol .mascot,.fffbot .mascot");
 function pxTick(){const el=pxEl();if(!el){PXF.raf=0;return}const dt=1/60,F=PXF;
@@ -2160,7 +2190,7 @@ function acctGateDraw(){const m=$("#acctm");if(!m||!ACCT_GATE)return;const A=ACC
  m.innerHTML=ACCT_GATE.step==="secure"?`<div class="fbbox acbox" role="dialog" aria-modal="true" aria-labelledby="acg-h">${mascot("pointup",64)}<h2 id="acg-h">Lock your account</h2>
   <p class="muted">Anyone who knows your NIAT ID and name could log in as you. Connect Google or set a password. After this, your name alone won't log you in.</p>
   ${A.googleOn?gBtn("Connect Google")+`<div class="acor">or set a password</div>`:""}${pwForm("gpw",false)}</div>`
- :`<div class="fbbox acbox" role="dialog" aria-modal="true" aria-labelledby="acg-h">${mascot("dance",64)}<h2 id="acg-h">Account locked ✓</h2>
+ :`<div class="fbbox acbox" role="dialog" aria-modal="true" aria-labelledby="acg-h">${mascot("salute",64)}<h2 id="acg-h">Account locked ✓</h2>
   <p class="muted">Add a recovery email, so you can reset your password if you ever forget it. You can also do this later from <b>Account</b> in the menu.</p>
   ${recForm("grec")}<button class="btn quiet acskip" data-act="acct-gate-done">${A.recovery?"Done":"Skip for now"}</button></div>`;
  setTimeout(()=>{const i=m.querySelector("input,button");i&&i.focus()},40)}

diff --git a/public/kbc.css b/public/kbc.css
@@ -3080,3 +3080,10 @@ html[data-theme="light"] .acf label{color:#0F766E}
 .acct .acc{align-items:stretch!important;text-align:left!important}.acct .acc h3{text-align:left}
 .acf,.acf label,.acf input{width:100%}.acf .btn,.acrow .btn{align-self:flex-start}
 .acstat b{word-break:normal;overflow-wrap:anywhere}
+
+/* Pixel faces the content: every pose is drawn turned to the right, because the buddy stands to the left of what it talks
+   about. Where it stands to the right of its content (the "You" marker on the right of a map node), it is mirrored. */
+.pworld .mav.r .mascot.m3d .m3s,.mascot.m3d.flip .m3s{scale:-1 1}
+/* reaction poses: quick gestures play faster, calm ones slower */
+.mascot.m3d.wave .m3strip,.mascot.m3d.cheer .m3strip,.mascot.m3d.clap .m3strip,.mascot.m3d.mindblown .m3strip{animation-duration:.9s}
+.mascot.m3d.heart .m3strip,.mascot.m3d.idea .m3strip,.mascot.m3d.shrug .m3strip,.mascot.m3d.salute .m3strip{animation-duration:1.6s}
